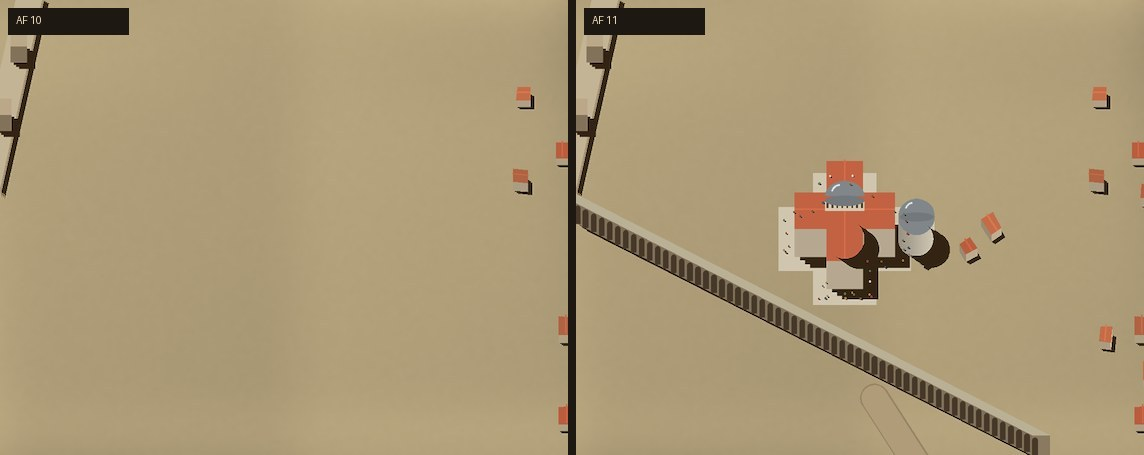
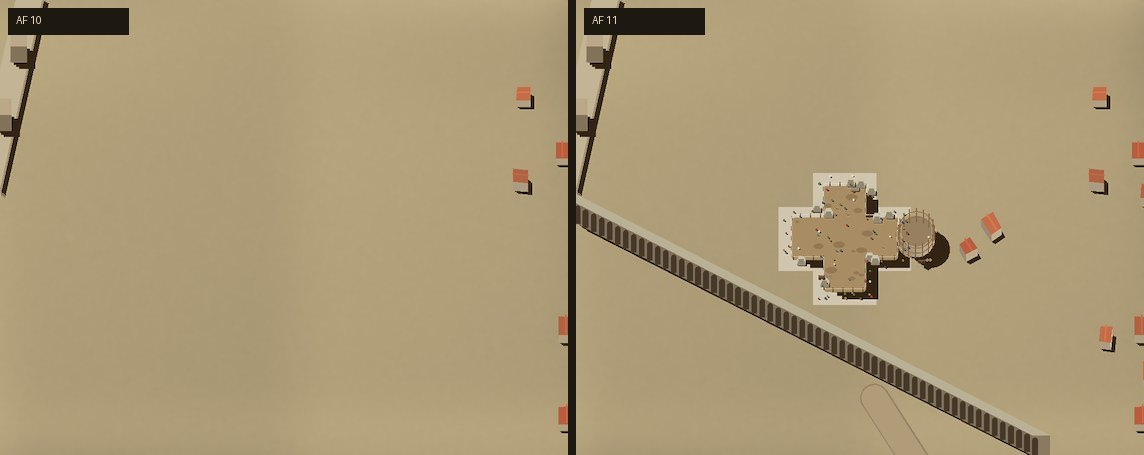
preview/epic: 按底账 phases 的工地分期图；旧图按分期重出 ——Hark

Changed region(s): [[0.6731, 0.3385, 0.826, 0.6462]]

diff --git a/docs/preview/epic/index.html b/docs/preview/epic/index.html
@@ -1,12 +1,14 @@
 <!doctype html><meta charset="utf-8"><title>安托萨 · 史诗建筑预览（本地原型）</title>
 <style>body{margin:0;background:#1d1a16;color:#eee;font:15px/1.6 system-ui,sans-serif}main{max-width:1400px;margin:auto;padding:20px}img{width:100%;border-radius:6px;margin:6px 0 26px}h1{font-size:22px}h2{font-size:17px;color:#e8c98a}</style>
 <main><h1>干山东扩 · 狄奥多西广场与大宁芙泉（预览，尚未接入正式页面）</h1>
+<h2>按底账分期的工地：建城 1 / 2 / 3 / 5 / 8 / 31 年（清场 → 立架 → 落成）</h2><img src="epic_phases_core.jpg">
+<h2>圣使徒教堂分期：11 清场 / 13 陵墓圆堂先成 / 14 十字墙体 / 18 完工</h2><img src="epic_phases_apostles.jpg">
 <h2>南岸港口与粮仓：建城元年 / 33 年 / 60 年（尤利安港 → 狄奥多西港 → 狄奥多西粮仓、亚历山大粮仓）</h2><img src="epic_shore_af1_33_60.jpg">
 <h2>创城者城墙与城门：建城前 / 11 年 / 60 年（城门卫队营房 AF11）</h2><img src="epic_gate_af0_11_60.jpg">
-<h2>帝国中心：建城前一年 → 建城元年（拜扎斯老城 → 君士坦丁广场、竞技场、大皇宫、梅塞柱廊）</h2><img src="epic_core_af0_af1.jpg">
-<h2>建城 30 年：大教堂落成（木顶巴西利卡，地基用拜扎斯旧墙石）</h2><img src="epic_core_af30.jpg">
+<h2>帝国中心：建城前一年 → 建城元年（拜扎斯老城 → 全面清场开工）</h2><img src="epic_core_af0_af1.jpg">
+<h2>建城 30 年：大教堂开工（清场，地基用拜扎斯旧墙石；33 年献堂）</h2><img src="epic_core_af30.jpg">
 <h2>建城 60 年：帝国中心</h2><img src="epic_core_af60.jpg">
-<h2>圣使徒教堂：建城 10 年 → 11 年（十字教堂 + 创城者陵墓圆堂）</h2><img src="epic_apostles_af10_11.jpg">
+<h2>圣使徒教堂：建城 10 年 → 11 年（山顶清场）</h2><img src="epic_apostles_af10_11.jpg">
 <h2>v2：广场细化（AF58 动工 → AF64 完工）</h2><img src="epic_forum_v2.jpg">
 <h2>v1：分年阶段（AF43 / 56 / 58 / 60 / 64）</h2><img src="epic_forum_theodosius.jpg">
 <h2>梅塞大道史诗化（前后对比）</h2><img src="epic_mese_before_after.jpg">
